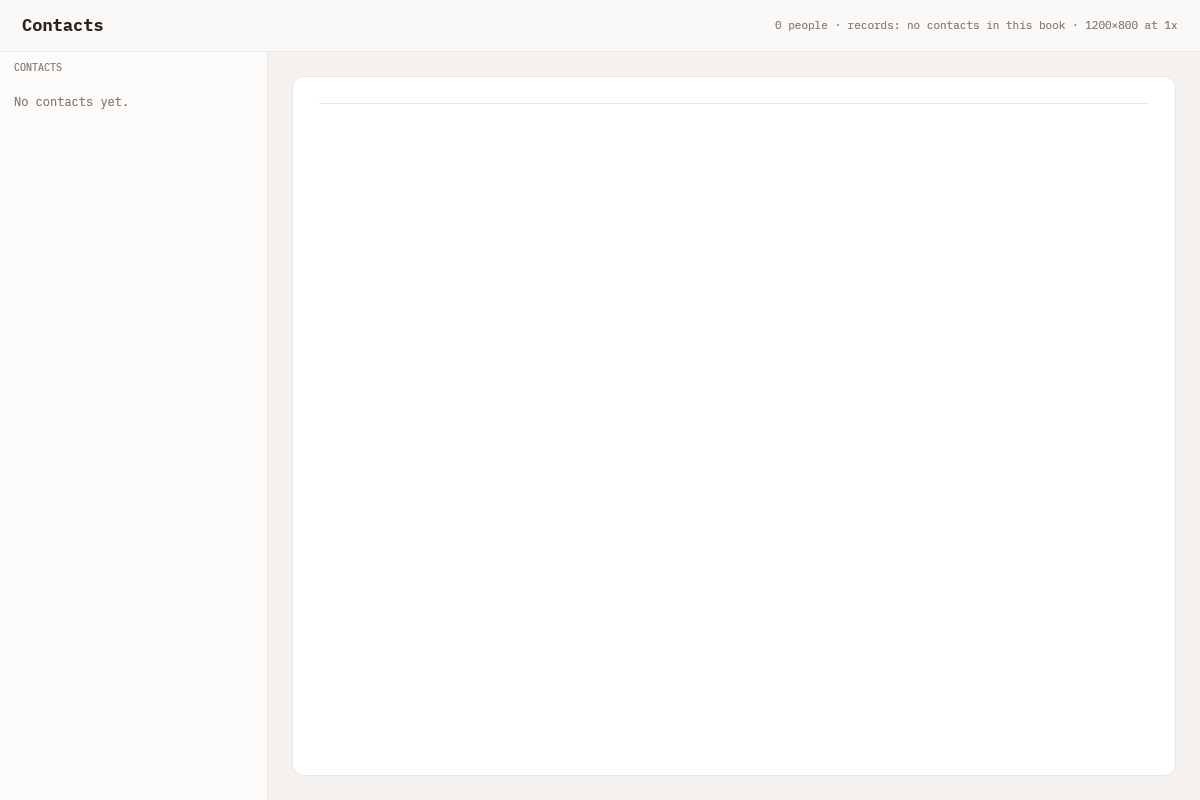
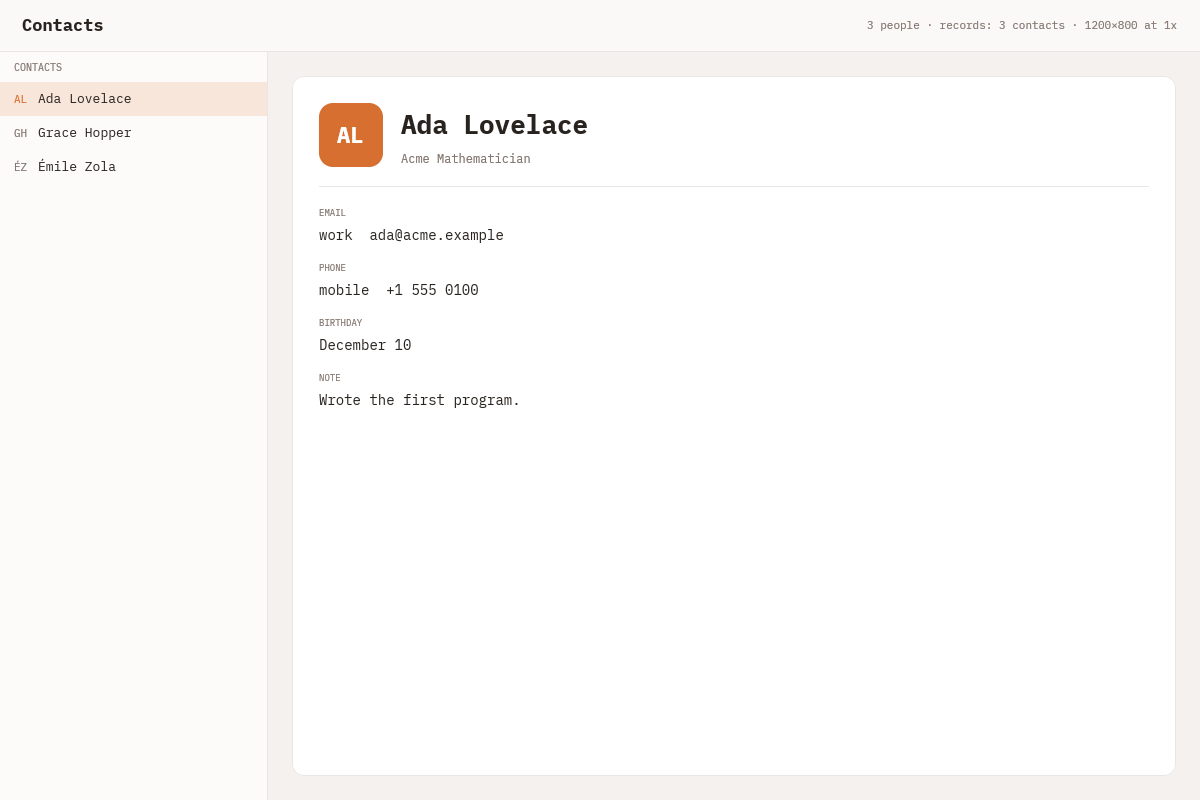
spores: land in the system books, not an icloud one
A contact synced from a phone and one typed in the contacts Spore are the same
record, so iCloud writes into the system `contacts` book rather than a private
`icloud` one; calendars into `calendar`, photos into `photos`. Each package
names its book in `[records]`.

The bridge follows the same split: `quince-soil` now has one book per domain
(`--contacts-book`, `--calendar-book`, `--photos-book`, `--book` for a host
that keeps a single store) instead of one book for everything.

Not fixed here, and worth saying plainly: a frame rendered from an
ingest-written book still comes back empty on the rebased host, so the earlier
"byte-identical" claim in cb9860a was two empty frames. The store side is now
right (ids are `<collection>:<id>`, book `contacts`) and the scan still finds
nothing; that is the next thing to chase, not something to paper over.

diff --git a/spores/README.md b/spores/README.md
@@ -65,8 +65,12 @@ them without an operator retyping a schema the package defines:
 ```toml
 [records]
 collections = ["fungos.contacts/contact"]
-book = "icloud"
+book = "contacts"
 ```
+
+The book is a **system** book, not one per source: iCloud is a source, so a contact
+the bridge writes lands in `contacts` and opens in the system contacts Spore — the
+same record as one typed there. Calendars land in `calendar`, photos in `photos`.
 
 The grant stays `soil:records` — the table says *which* collections, and the host
 still decides whether the capability is granted. A command-line `--collection`
